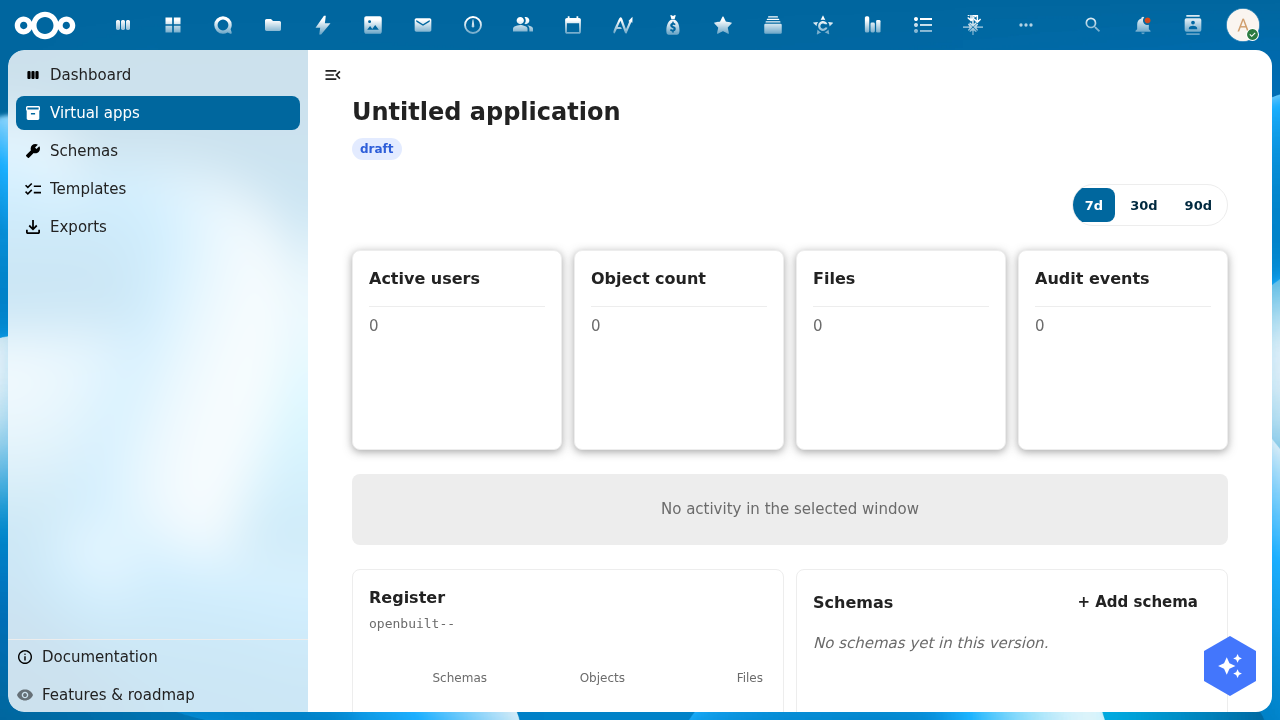
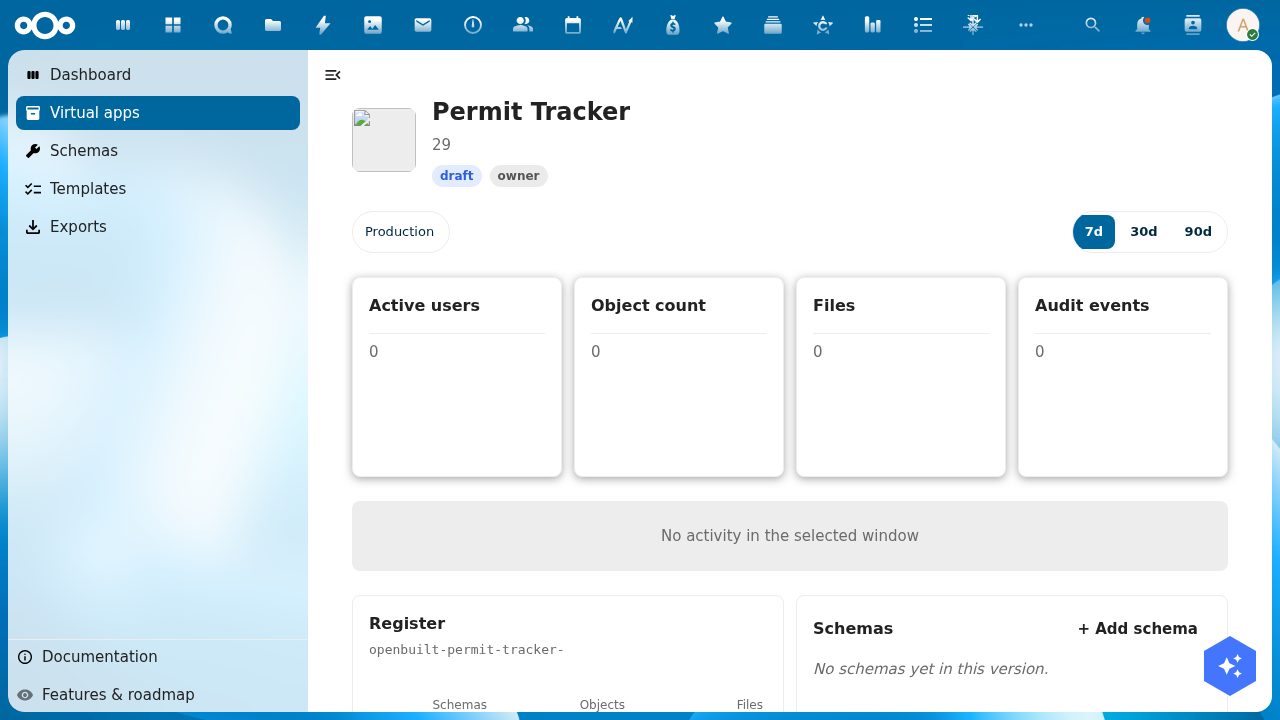
fix(detail): header fetches Application via OR API on mount
CnDetailPage's #header slot only forwards presentational props
(title / description / icon), NOT the resolved object. The header
component's '$props.object' was always null, so 'application' fell
back to the 'Untitled application' translation and the version pills
+ name + status never rendered.

Fix: revert 'application' to data, and have refreshApplication fetch
the Application record from OR's objects API by UUID (resolved from
the route params when objectId prop is missing). mounted() now runs
the fetch unconditionally when application is empty.

Verified end-to-end: 'Permit Tracker' (the wizard-created app) now
shows its real name, status, owner role, and Production version pill
in the hero. Tutorial screenshot updated.

Three small cosmetic issues remain (description rendering as record
field count, Register slug truncated, development version pill not
rendered alongside Production) — file as follow-up issues, not
blocking the full flow.

diff --git a/src/components/applicationDetail/ApplicationDetailHeader.vue b/src/components/applicationDetail/ApplicationDetailHeader.vue
@@ -209,6 +209,9 @@ export default {
 	},
 	data() {
 		return {
+			// CnDetailPage's #header slot only forwards presentational props
+			// (title/description/icon), not the resolved record — so we fetch
+			// the Application ourselves by UUID via OR's API on mount.
 			application: this.object || null,
 			versions: [],
 			selectedWindow: '7d',
@@ -374,8 +377,10 @@ export default {
 	},
 	watch: {
 		object(next) {
-			this.application = next || null
-			this.loadVersions()
+			if (next) {
+				this.application = next
+				this.loadVersions()
+			}
 		},
 		objectId() {
 			this.refreshApplication()
@@ -396,7 +401,9 @@ export default {
 		},
 	},
 	mounted() {
-		if (!this.application && this.objectId) {
+		// CnDetailPage's #header slot doesn't pass the resolved object, so we
+		// fetch the Application by UUID from the route params on mount.
+		if (!this.application) {
 			this.refreshApplication()
 		} else {
 			this.loadVersions()
@@ -511,9 +518,10 @@ export default {
 		 * @return {Promise<void>}
 		 */
 		async refreshApplication() {
-			if (!this.objectId) return
+			const uuid = this.objectId || (this.$route && this.$route.params && this.$route.params.objectId) || ''
+			if (!uuid) return
 			try {
-				const url = generateUrl(`/apps/openregister/api/objects/openbuilt/application/${encodeURIComponent(this.objectId)}`)
+				const url = generateUrl(`/apps/openregister/api/objects/openbuilt/application/${encodeURIComponent(uuid)}`)
 				const { data } = await axios.get(url)
 				this.application = (data && (data['@self'] ? { ...data, ...(data['@self'] || {}) } : data)) || null
 				this.loadVersions()